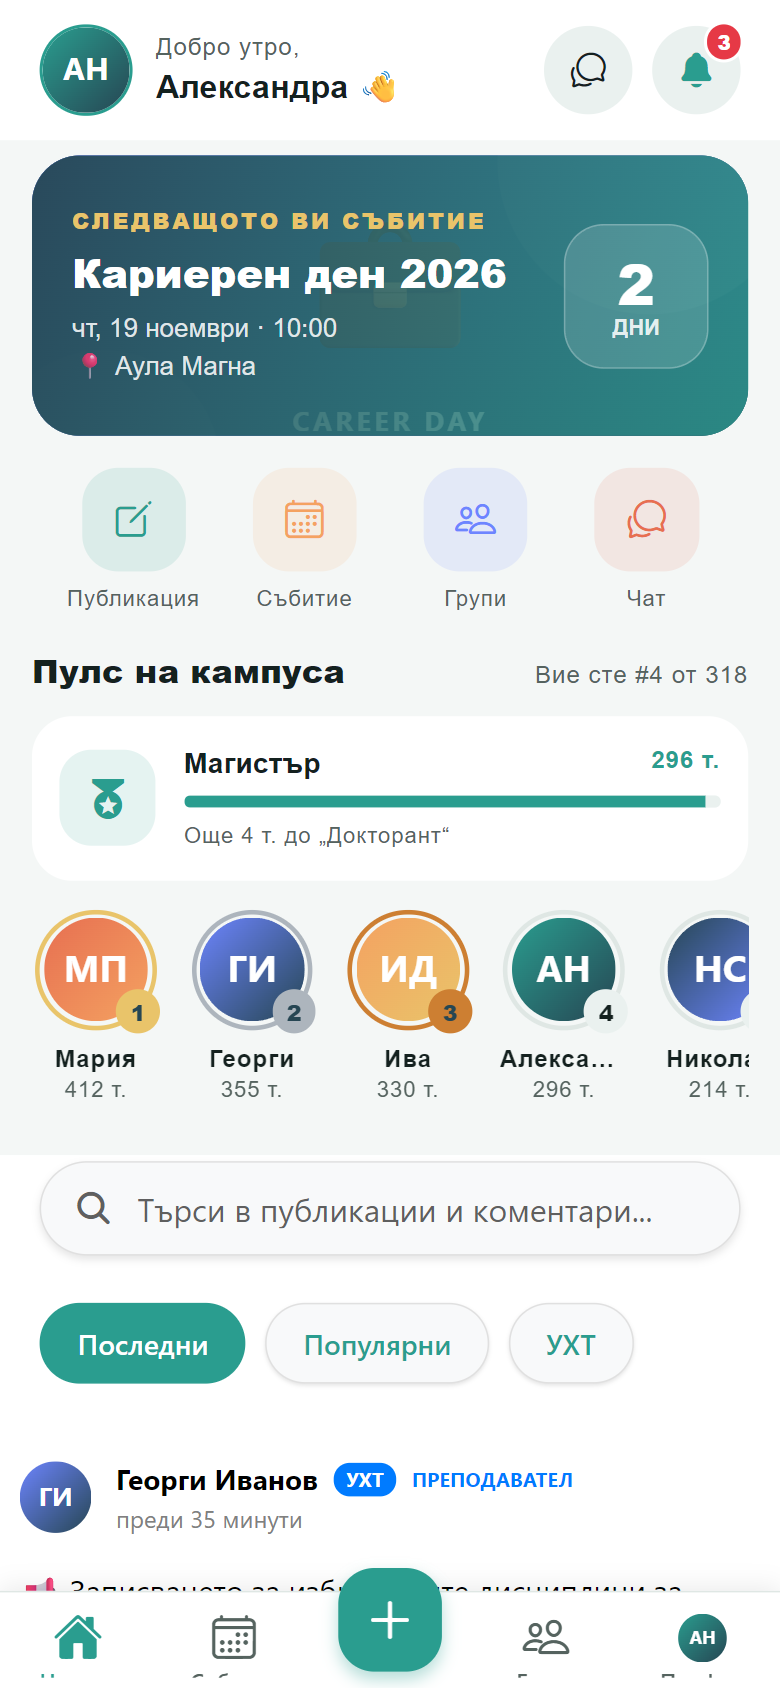
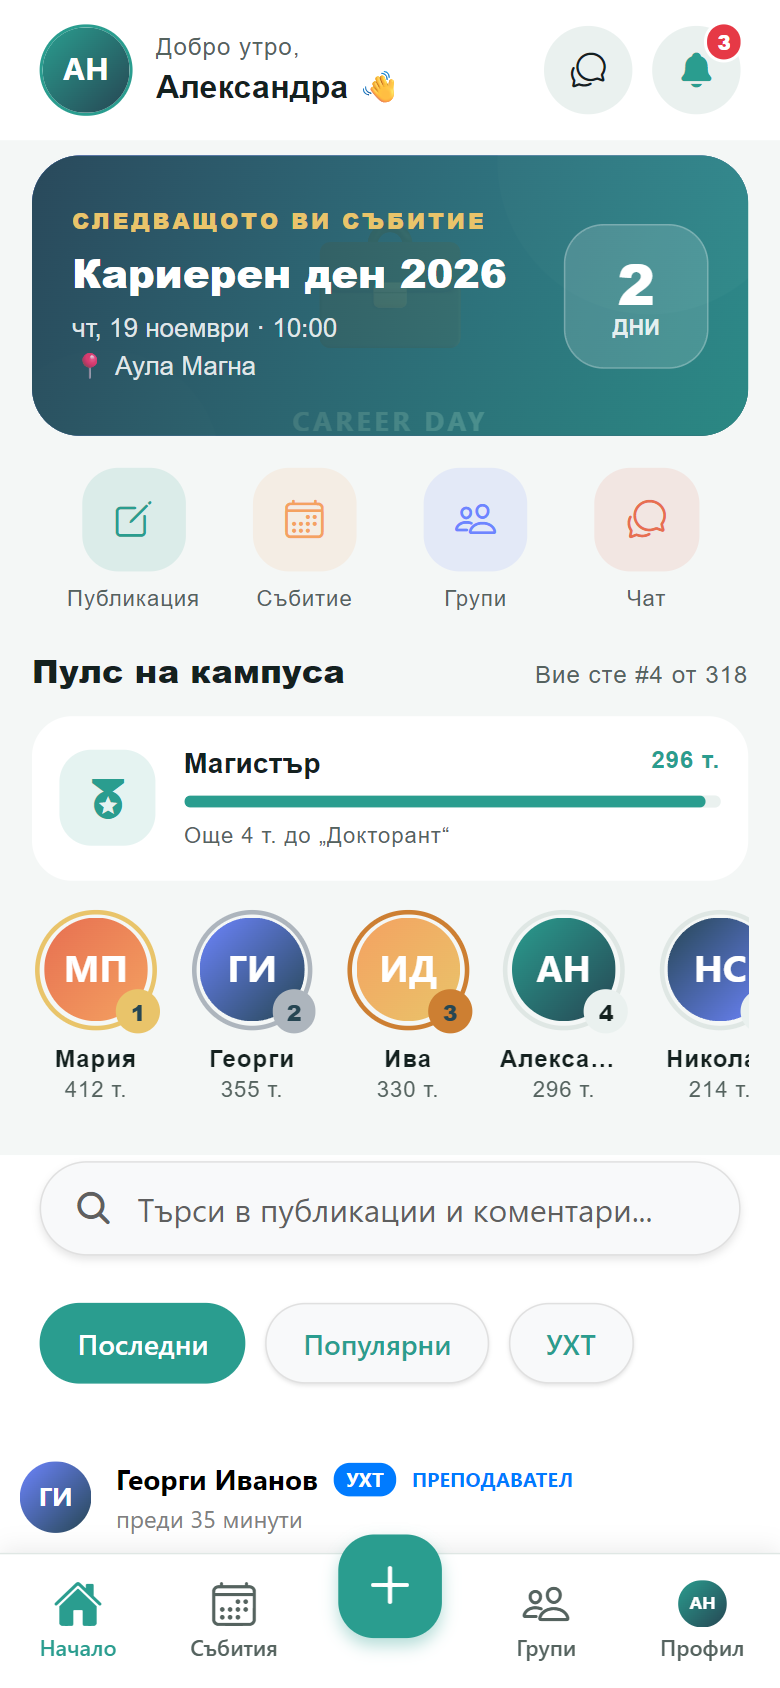
docs: full screenshot gallery; fix level progress bar and tab labels on web
- Paper ProgressBar is height:100% on web and pushed the level card text
  out of the card; replaced with a plain View bar (PulseStrip, LevelCard).
- Tab bar: explicit height incl. bottom safe-area inset so labels are not
  clipped.

diff --git a/components/Pulse/PulseStrip.tsx b/components/Pulse/PulseStrip.tsx
@@ -1,6 +1,6 @@
 import React, { useContext } from 'react'
 import { View, FlatList, TouchableOpacity, StyleSheet } from 'react-native'
-import { Text, ProgressBar, useTheme } from 'react-native-paper'
+import { Text, useTheme } from 'react-native-paper'
 import { MaterialCommunityIcons } from '@expo/vector-icons'
 import { Image } from 'expo-image'
 import { useRouter } from 'expo-router'
@@ -53,11 +53,9 @@ const PulseStrip = React.memo(function PulseStrip() {
               {me?.points ?? 0} т.
             </Text>
           </View>
-          <ProgressBar
-            progress={level.progress}
-            color={Colors.PRIMARY}
-            style={styles.progress}
-          />
+          <View style={[styles.progress, { backgroundColor: theme.colors.surfaceVariant }]}>
+            <View style={[styles.progressFill, { width: `${level.progress * 100}%` }]} />
+          </View>
           <Text variant="labelSmall" style={{ color: theme.colors.onSurfaceVariant }}>
             {level.next
               ? `Още ${level.toNext} т. до „${level.next.title}“`
@@ -152,7 +150,9 @@ const styles = StyleSheet.create({
     justifyContent: 'center',
   },
   levelRow: { flexDirection: 'row', justifyContent: 'space-between' },
-  progress: { height: 6, borderRadius: 3 },
+  // plain Views: Paper's ProgressBar is height:100% on web and breaks the layout
+  progress: { height: 6, borderRadius: 3, overflow: 'hidden' },
+  progressFill: { height: '100%', borderRadius: 3, backgroundColor: Colors.PRIMARY },
   list: { gap: 14, paddingVertical: 14, paddingRight: 8 },
   person: { alignItems: 'center', width: 64 },
   ring: { borderWidth: 3, borderRadius: 32, padding: 2 },

diff --git a/components/Pulse/LevelCard.tsx b/components/Pulse/LevelCard.tsx
@@ -1,6 +1,6 @@
 import React from 'react'
 import { View, StyleSheet } from 'react-native'
-import { Text, ProgressBar, useTheme } from 'react-native-paper'
+import { Text, useTheme } from 'react-native-paper'
 import { MaterialCommunityIcons } from '@expo/vector-icons'
 import { LinearGradient } from 'expo-linear-gradient'
 
@@ -38,11 +38,9 @@ export default function LevelCard({ email }: { email?: string }) {
           </View>
         </View>
 
-        <ProgressBar
-          progress={level.progress}
-          color={Colors.GOLD}
-          style={styles.progress}
-        />
+        <View style={styles.progress}>
+          <View style={[styles.progressFill, { width: `${level.progress * 100}%` }]} />
+        </View>
         <Text style={styles.sub}>
           {level.next
             ? `Още ${level.toNext} т. до „${level.next.title}“`
@@ -106,7 +104,13 @@ const styles = StyleSheet.create({
   kicker: { color: 'rgba(255,255,255,0.75)', fontSize: 11, fontWeight: '800', letterSpacing: 1.2 },
   title: { color: '#fff', fontSize: 22, fontWeight: '800' },
   points: { color: Colors.GOLD, fontSize: 26, fontWeight: '900' },
-  progress: { height: 8, borderRadius: 4, backgroundColor: 'rgba(255,255,255,0.2)' },
+  progress: {
+    height: 8,
+    borderRadius: 4,
+    overflow: 'hidden',
+    backgroundColor: 'rgba(255,255,255,0.2)',
+  },
+  progressFill: { height: '100%', borderRadius: 4, backgroundColor: Colors.GOLD },
   sub: { color: '#fff', fontSize: 13, fontWeight: '600' },
   howto: { color: 'rgba(255,255,255,0.7)', fontSize: 11, lineHeight: 16 },
   badges: { flexDirection: 'row', flexWrap: 'wrap', gap: 10, marginTop: 12 },

diff --git a/app/(tabs)/_layout.tsx b/app/(tabs)/_layout.tsx
@@ -2,6 +2,7 @@ import React, { useContext } from 'react'
 import { Tabs } from 'expo-router'
 import { View, StyleSheet } from 'react-native'
 import { useTheme } from 'react-native-paper'
+import { useSafeAreaInsets } from 'react-native-safe-area-context'
 import { Image } from 'expo-image'
 import Ionicons from '@expo/vector-icons/Ionicons'
 import * as Haptics from 'expo-haptics'
@@ -18,6 +19,7 @@ const icon =
 export default function TabLayout() {
   const { user } = useContext(AuthContext)
   const theme = useTheme()
+  const { bottom } = useSafeAreaInsets()
 
   return (
     <Tabs
@@ -31,6 +33,9 @@ export default function TabLayout() {
           {
             backgroundColor: theme.colors.surface,
             borderTopColor: theme.colors.outlineVariant,
+            // room for icon + label, plus the home-indicator inset on iOS
+            height: 68 + bottom,
+            paddingBottom: bottom + 8,
           },
         ],
         sceneStyle: { backgroundColor: theme.colors.background },
@@ -103,9 +108,8 @@ export default function TabLayout() {
 }
 
 const styles = StyleSheet.create({
-  // no fixed height: the default one adds the bottom safe-area inset
   bar: {
-    paddingTop: 4,
+    paddingTop: 6,
     borderTopWidth: StyleSheet.hairlineWidth,
     elevation: 12,
     shadowColor: '#000',

diff --git a/README.md b/README.md
@@ -17,14 +17,15 @@ _Master's thesis project: a cross-platform mobile app built for a Bulgarian univ
 
 ## Screenshots
 
-<p align="center">
-  <img src="docs/screenshots/02-home.png" width="200" alt="Home: next event countdown and Campus Pulse" />
-  <img src="docs/screenshots/03-events.png" width="200" alt="Events with countdown, calendar export and sharing" />
-  <img src="docs/screenshots/05-notifications.png" width="200" alt="Notifications center" />
-  <img src="docs/screenshots/08-home-dark.png" width="200" alt="Home in dark mode" />
-</p>
+| Home | Events | Event details | Notifications |
+| :---: | :---: | :---: | :---: |
+| <img src="docs/screenshots/02-home.png" width="200" alt="Home: next event countdown, quick actions and Campus Pulse leaderboard" /> | <img src="docs/screenshots/03-events.png" width="200" alt="Upcoming events with countdown chip, calendar export and sharing" /> | <img src="docs/screenshots/04-event-details.png" width="200" alt="Event details with share and add-to-calendar actions" /> | <img src="docs/screenshots/05-notifications.png" width="200" alt="Notifications grouped by day with unread highlights" /> |
 
-<p align="center"><sub>Home · Events · Notifications · Dark mode (demo data)</sub></p>
+| Level & badges | Dark mode | Dark mode | Welcome |
+| :---: | :---: | :---: | :---: |
+| <img src="docs/screenshots/06-profile-level.png" width="200" alt="Profile: academic level, progress and badges" /> | <img src="docs/screenshots/08-home-dark.png" width="200" alt="Home in dark mode" /> | <img src="docs/screenshots/09-events-dark.png" width="200" alt="Events in dark mode" /> | <img src="docs/screenshots/01-landing.png" width="200" alt="Landing screen" /> |
+
+<sub>Captured from the web build with demo data (no real users).</sub>
 
 ## What it does
 
